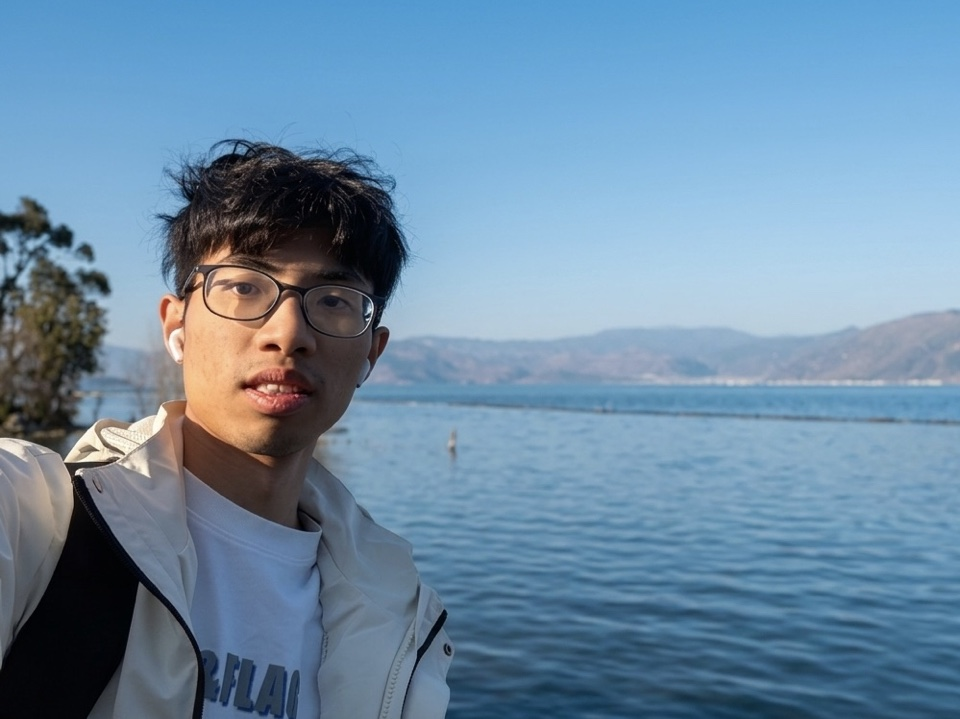
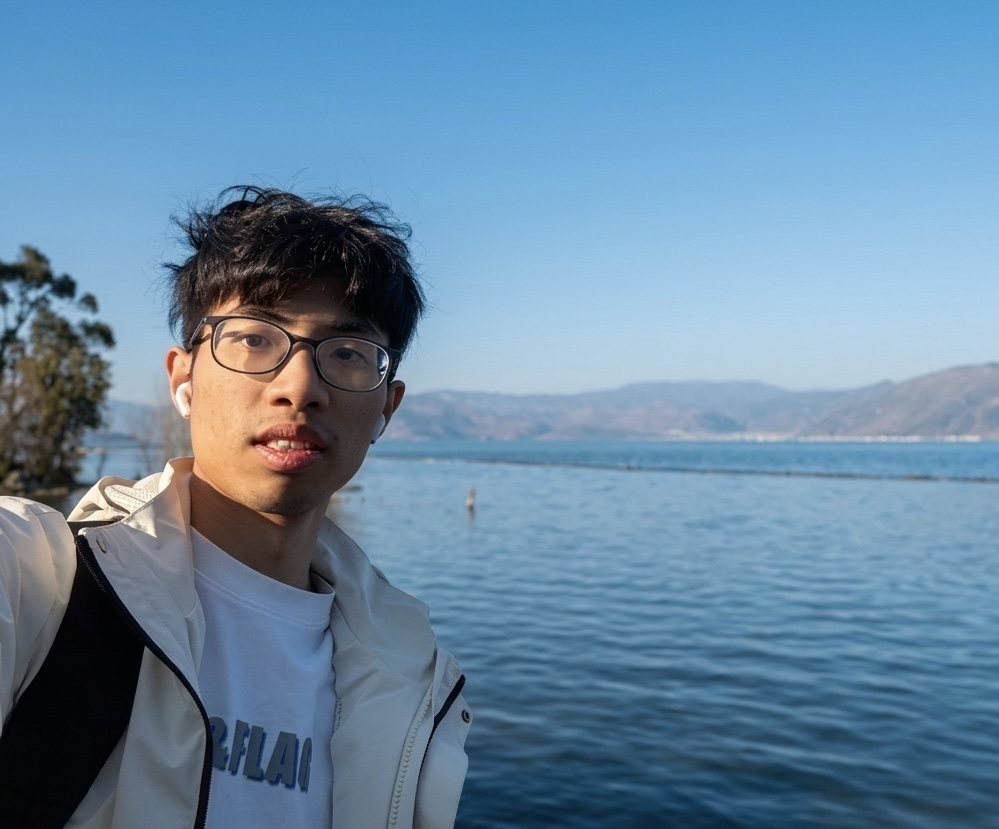
style: show about photo uncropped

diff --git a/src/components/AboutLanguageToggle.vue b/src/components/AboutLanguageToggle.vue
@@ -350,7 +350,7 @@ function setLanguage(value: Language) {
 
 .about-lead {
   display: grid;
-  grid-template-columns: minmax(0, 1fr) minmax(12rem, 16rem);
+  grid-template-columns: minmax(0, 1fr) minmax(12rem, 16.5rem);
   align-items: start;
   gap: 1.8rem;
 }
@@ -383,7 +383,7 @@ function setLanguage(value: Language) {
 }
 
 .portrait-frame {
-  aspect-ratio: 4 / 3;
+  aspect-ratio: 999 / 829;
   border: 1px solid rgba(125, 125, 125, 0.24);
   border-radius: 8px;
   background-image:
@@ -621,7 +621,7 @@ function setLanguage(value: Language) {
   .about-portrait {
     position: static;
     order: -1;
-    width: min(18rem, 86vw);
+    width: min(18.5rem, 86vw);
     margin: 0 auto 0.25rem;
   }
 
